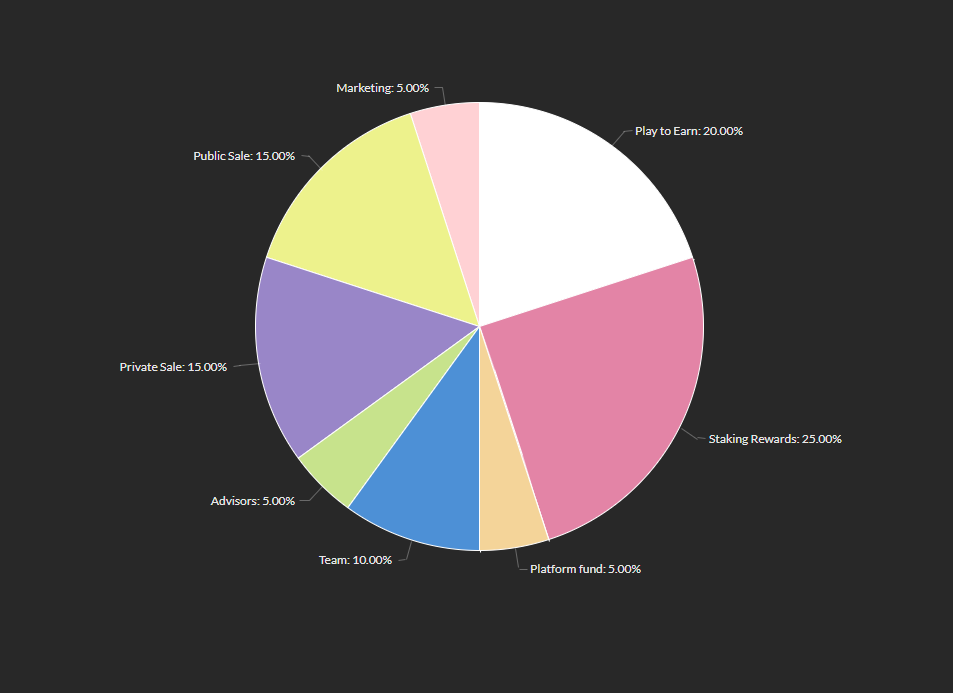
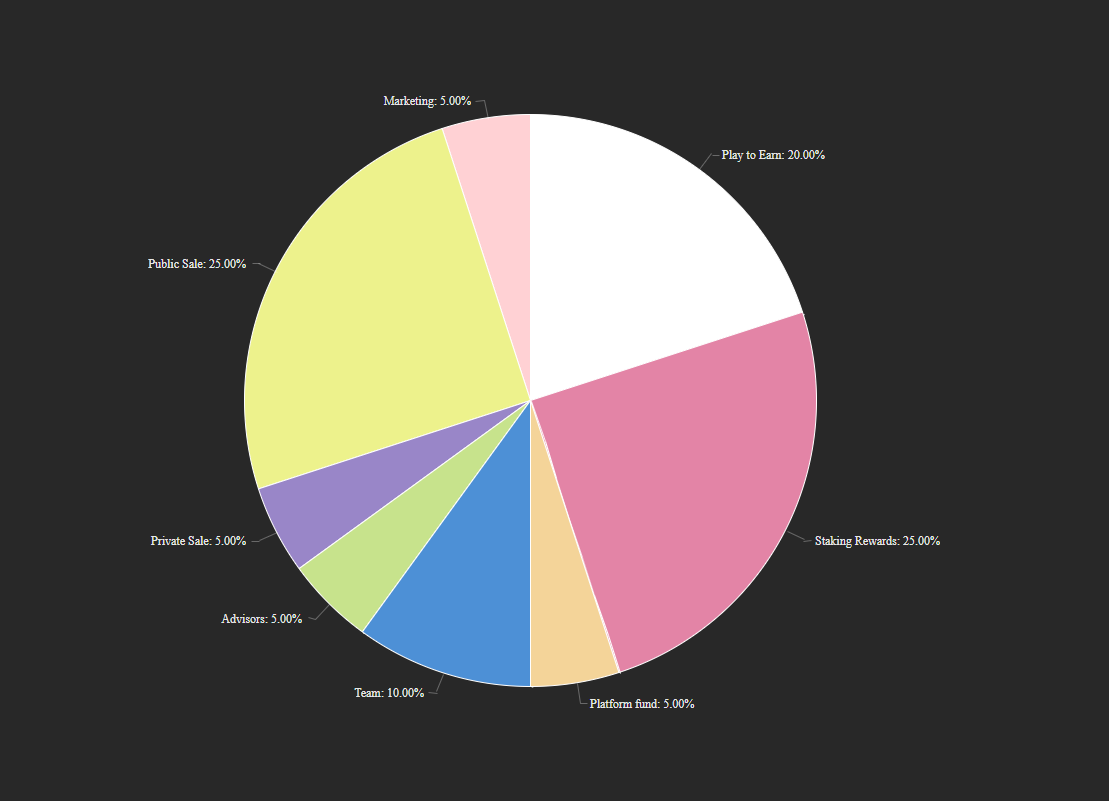
GitBook: [#52] No subject

diff --git a/token/token/README.md b/token/token/README.md
@@ -1,14 +1,12 @@
 # Token
 
-The Altered Battleground Token ($[AlterBg](https://bscscan.com/token/0xd343f58aCb66c23daBeadEA11F605165eDB4E5B0)) use ERC-20 / BEP-20 technology. Contract 0xd343f58aCb66c23daBeadEA11F605165eDB4E5B0
+he Altered Battleground Token ($[AlterBg](https://bscscan.com/token/0xd343f58aCb66c23daBeadEA11F605165eDB4E5B0)) use ERC-20 / BEP-20 technology. Contract 0xd343f58aCb66c23daBeadEA11F605165eDB4E5B0
 
 The AlterBg token distribution will be one hundred million tokens (100,000,000) that will be distributed over \~ five years.
 
 This token is used as the main cryptocurrency / token within the entire Altered Battleground meta-verse. Every activity within the game will use this token as exchange currency with the exception of the store, which will use the BUSD stable coin.
 
 All in-game purchases, manufacturing commissions and item repair commissions will be redistributed by 80% again among all players once the PlayToEarn base Stock limit is exhausted. With this we hope that the game will remain in force over time and the wealth of tokens generated will be shared among the players who gave us their trust over the years.
-
-
 
 ![](../../.gitbook/assets/allocate.png)
 
@@ -20,6 +18,6 @@ All in-game purchases, manufacturing commissions and item repair commissions wil
 | Platform fund                    | 5.000.000  | 5%  |
 | Team (4 year lock up period)     | 10.000.000 | 10% |
 | Advisors (5 year lock up period) | 5.000.000  | 5%  |
-| Private Sale                     | 5.000.000  | 15% |
-| Public Sale                      | 25.000.000 | 15% |
+| Private Sale                     | 5.000.000  | 5%  |
+| Public Sale                      | 25.000.000 | 25% |
 | Marketing                        | 5.000.000  | 5%  |

diff --git a/token/token/public-sale.md b/token/token/public-sale.md
@@ -1,11 +1,11 @@
 # Public Sale
 
-Amount distributed 15,000,000 tokens unlocked from day 0
+Amount distributed 25,000,000 tokens unlocked from day 0
 
 {% tabs %}
 {% tab title="Description" %}
-| Token Amount | % of total supply | Unlock schedule |
-| ------------ | ----------------- | --------------- |
-| 15.000.000   | 15%               | day 0           |
+| Token Amount | % of total supply | Unlock schedule      |
+| ------------ | ----------------- | -------------------- |
+| 25.000.000   | 25%               | Gradual Over 2 Years |
 {% endtab %}
 {% endtabs %}

diff --git a/token/token/private-sale.md b/token/token/private-sale.md
@@ -8,6 +8,6 @@ The private sale will have a 20% discount, the date will be announced by the off
 {% tab title="Description" %}
 | Token Amount | % of total supply | Unlock schedule      |
 | ------------ | ----------------- | -------------------- |
-| 15.000.000   | 15%               | Gradual over 2 years |
+| 5.000.000    | 5%                | Gradual over 2 years |
 {% endtab %}
 {% endtabs %}
